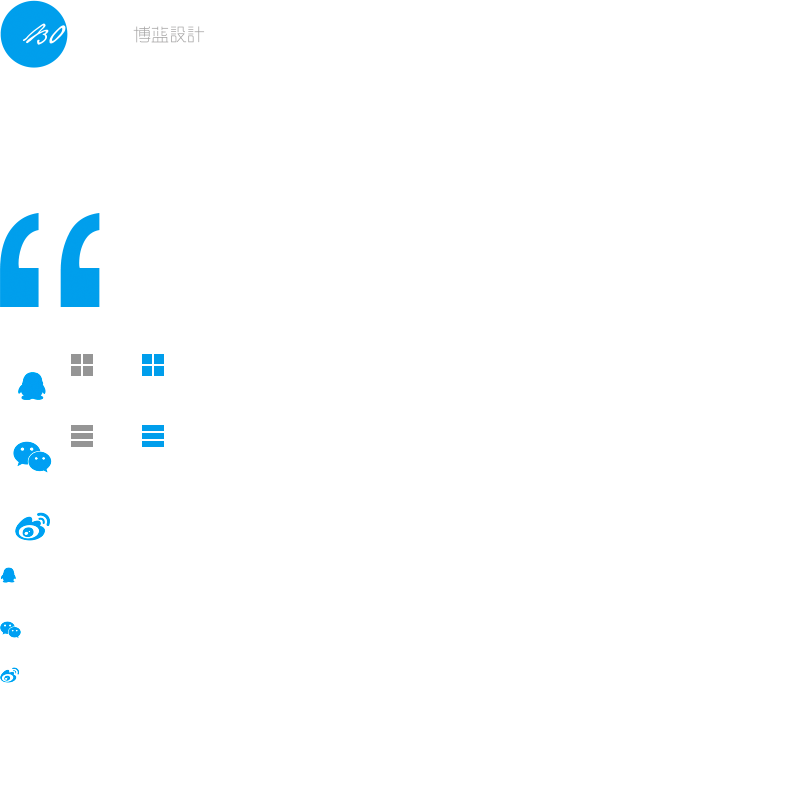
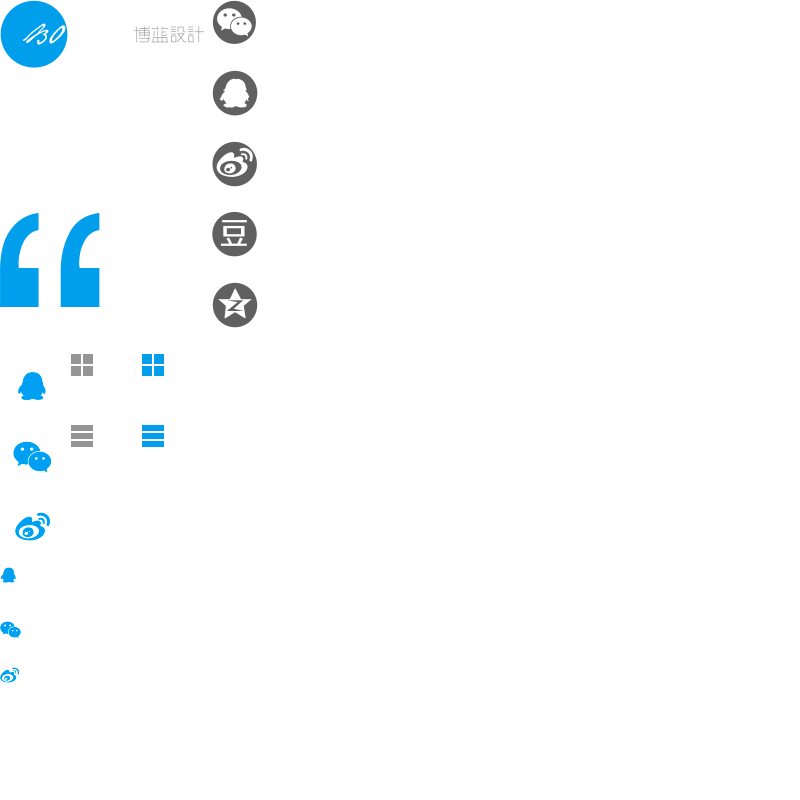
news-detail.html

Changed region(s): [[0.25, 0.0, 0.3438, 0.4062]]

diff --git a/css/page.css b/css/page.css
@@ -186,6 +186,40 @@ transition: all 0.5s;position: absolute;left: 50%;top: 50%;margin: -180px 0 0 -1
 .news-list li .text	.date{font-size: 14px;color: #000;margin-bottom: 50px;}
 .news-list .more{-webkit-transition: all 0.5s; -o-transition: all 0.5s; transition: all 0.5s;display: block;width:160px;height:60px;line-height: 60px;margin:150px auto;text-align: center;color: #000;border-left: 1px solid #000;border-right: 1px solid #000;}
 .news-list .more:hover{color: #00a0e9;border-color: #00a0e9;}
+
+.news-detail{padding-top: 40px;}
+.news-detail h2{font-size: 16px;font-weight: bold;margin: 0 0 30px 0;}
+.news-detail .date{font-size: 12px;}
+.news-detail .topBanner{max-height: 650px;width: 100%;display: block;}
+.news-detail .content {padding:100px 0 100px 400px;position: relative;}
+.news-detail .content .share{position: absolute;left: 0;top: 60px;padding-top: 120px;font-size: 0;line-height: 0;}
+.news-detail .content .share .icon{position:absolute;top:0;left:0;background:url(../images/css-spd.png) 0 -213px no-repeat;width:100px;height:94px;}
+.news-detail .content .share a{margin-right: 10px;background:url(../images/css-spd.png) 0 -213px no-repeat;display: inline-block;width: 46px;height: 46px;}
+.news-detail .content .share a.wx{background-position: -212px 0;}
+.news-detail .content .share a.qq{background-position: -212px -70px;}
+.news-detail .content .share a.sina{background-position: -212px -141px;}
+.news-detail .content .share a.dou{background-position: -212px -212px;}
+.news-detail .content .share a.qone{background-position: -212px -282px;}
+
+.news-detail .content .big{font-size: 26px;line-height: 2em;}
+.news-detail .other a{color: #000;-webkit-transition: all 0.5s; -o-transition: all 0.5s; transition: all 0.5s;}
+.news-detail .other a span{display:inline-block;-webkit-transition: all 0.5s; -o-transition: all 0.5s; transition: all 0.5s;text-align: right;font-size: 14px;width: 60px;color: #000;border-bottom: 1px solid #000;padding: 5px 0;margin-bottom: 10px;}
+.news-detail .other .next{text-align: right;}
+.news-detail .other .next span{text-align: left;}
+.news-detail .other a:hover{color: #00a0e9;}
+.news-detail .other a:hover span{color: #00a0e9;border-color: #00a0e9;}
+.news-detail .return{-webkit-transition: all 0.5s; -o-transition: all 0.5s; transition: all 0.5s;display: block;width:160px;height:60px;line-height: 60px;margin:150px auto;text-align: center;color: #000;border-left: 1px solid #000;border-right: 1px solid #000;}
+.news-detail .return:hover{color: #00a0e9;border-color: #00a0e9;}
+
+.news-detail .rmd-list{margin-bottom: 150px;}
+.news-detail .rmd-list h3{font-size: 16px;margin-bottom: 30px;}
+.news-detail .rmd-list ul{margin: 0 -20px;}
+.news-detail .rmd-list li{float: left;width: 33.33%;}
+.news-detail .rmd-list li a{display: block;padding: 0 20px;color: #999;}
+.news-detail .rmd-list li .img{display: block;overflow: hidden;width: 100%;max-height: 200px;}
+.news-detail .rmd-list li img{-webkit-transition: all 0.5s; -o-transition: all 0.5s; transition: all 0.5s;}
+.news-detail .rmd-list li img:hover{-webkit-transform: scale(1.1); -ms-transform: scale(1.1); -o-transform: scale(1.1); transform: scale(1.1);}
+.news-detail .rmd-list li h4{font-weight: normal;font-size: 16px;min-height: 5em;}
 /* =======================  news  =======================*/
 
 
@@ -407,6 +441,9 @@ transition: all 0.5s;position: absolute;left: 50%;top: 50%;margin: -180px 0 0 -1
 	.news-list li .text{padding: 20px;}
 	.news-list .more{margin: 50px auto 100px;}
 
+	.news-detail .content{padding-left: 0;}
+	.news-detail .content .share{position:relative;padding-left: 140px;padding-top: 50px;top: 0;margin-bottom: 30px;}
+
 }
 
 @media screen and (max-width: 414px){
@@ -435,6 +472,28 @@ transition: all 0.5s;position: absolute;left: 50%;top: 50%;margin: -180px 0 0 -1
 	
 	.company-honor{padding: 40px 20px;}
 	.company-honor li{width: 100%;margin-bottom: 10px;}
+	
+	.news-detail h2,
+	.news-detail .date{padding: 0 20px;}
+	.news-detail .content{padding: 50px 20px;}
+	.news-detail .content .share {padding-top: 25px;padding-left: 100px;}
+	.news-detail .content .share .icon{left: 20px;background-position: 0 -105px;width: 50px;height: 50px;-webkit-background-size: 400px 400px; background-size: 400px 400px;}
+	.news-detail .content .share a{-webkit-background-size: 400px 400px; background-size: 400px 400px;width: 23px;height: 23px;}
+	.news-detail .content .share a.wx{background-position: -106px 0;}
+	.news-detail .content .share a.qq{background-position: -106px -35px;}
+	.news-detail .content .share a.sina{background-position: -106px -70px;}
+	.news-detail .content .share a.dou{background-position: -106px -105px;}
+	.news-detail .content .share a.qone{background-position: -106px -140px;}
+	.news-detail .content .big{font-size: 20px;line-height: 1.6em;}
+	.news-detail .other{padding: 0 20px;}
+	.news-detail .other a{float: none !important;display: block;text-align: left !important;}
+	.news-detail .return{margin: 100px auto;}
+	.news-detail .rmd-list{margin-bottom: 50px;}
+	.news-detail .rmd-list h3{padding: 0 20px;}
+	.news-detail .rmd-list ul{margin: 0;}
+	.news-detail .rmd-list li{width: 100%;}
+	.news-detail .rmd-list li a{padding: 0;}
+	.news-detail .rmd-list li h4{padding: 0 20px;}
 }
 
 

diff --git a/css/index.css b/css/index.css
@@ -224,7 +224,7 @@ transition:all 0.6s;
 	-o-transform: scale(1);
 	transform: scale(1);}
 	.business .img, .business ul{width: 100%;}
-	.about .icon{top: 20p;left: 20px;background-position: 0 -105px;width: 50px;height: 50px;-webkit-background-size: 400px 400px;
+	.about .icon{left: 20px;background-position: 0 -105px;width: 50px;height: 50px;-webkit-background-size: 400px 400px;
 	background-size: 400px 400px;}
 	.about .text {width: 75%;}
 	.about .text p{font-size: 16px;text-align: justify;padding-right: 20px;}
